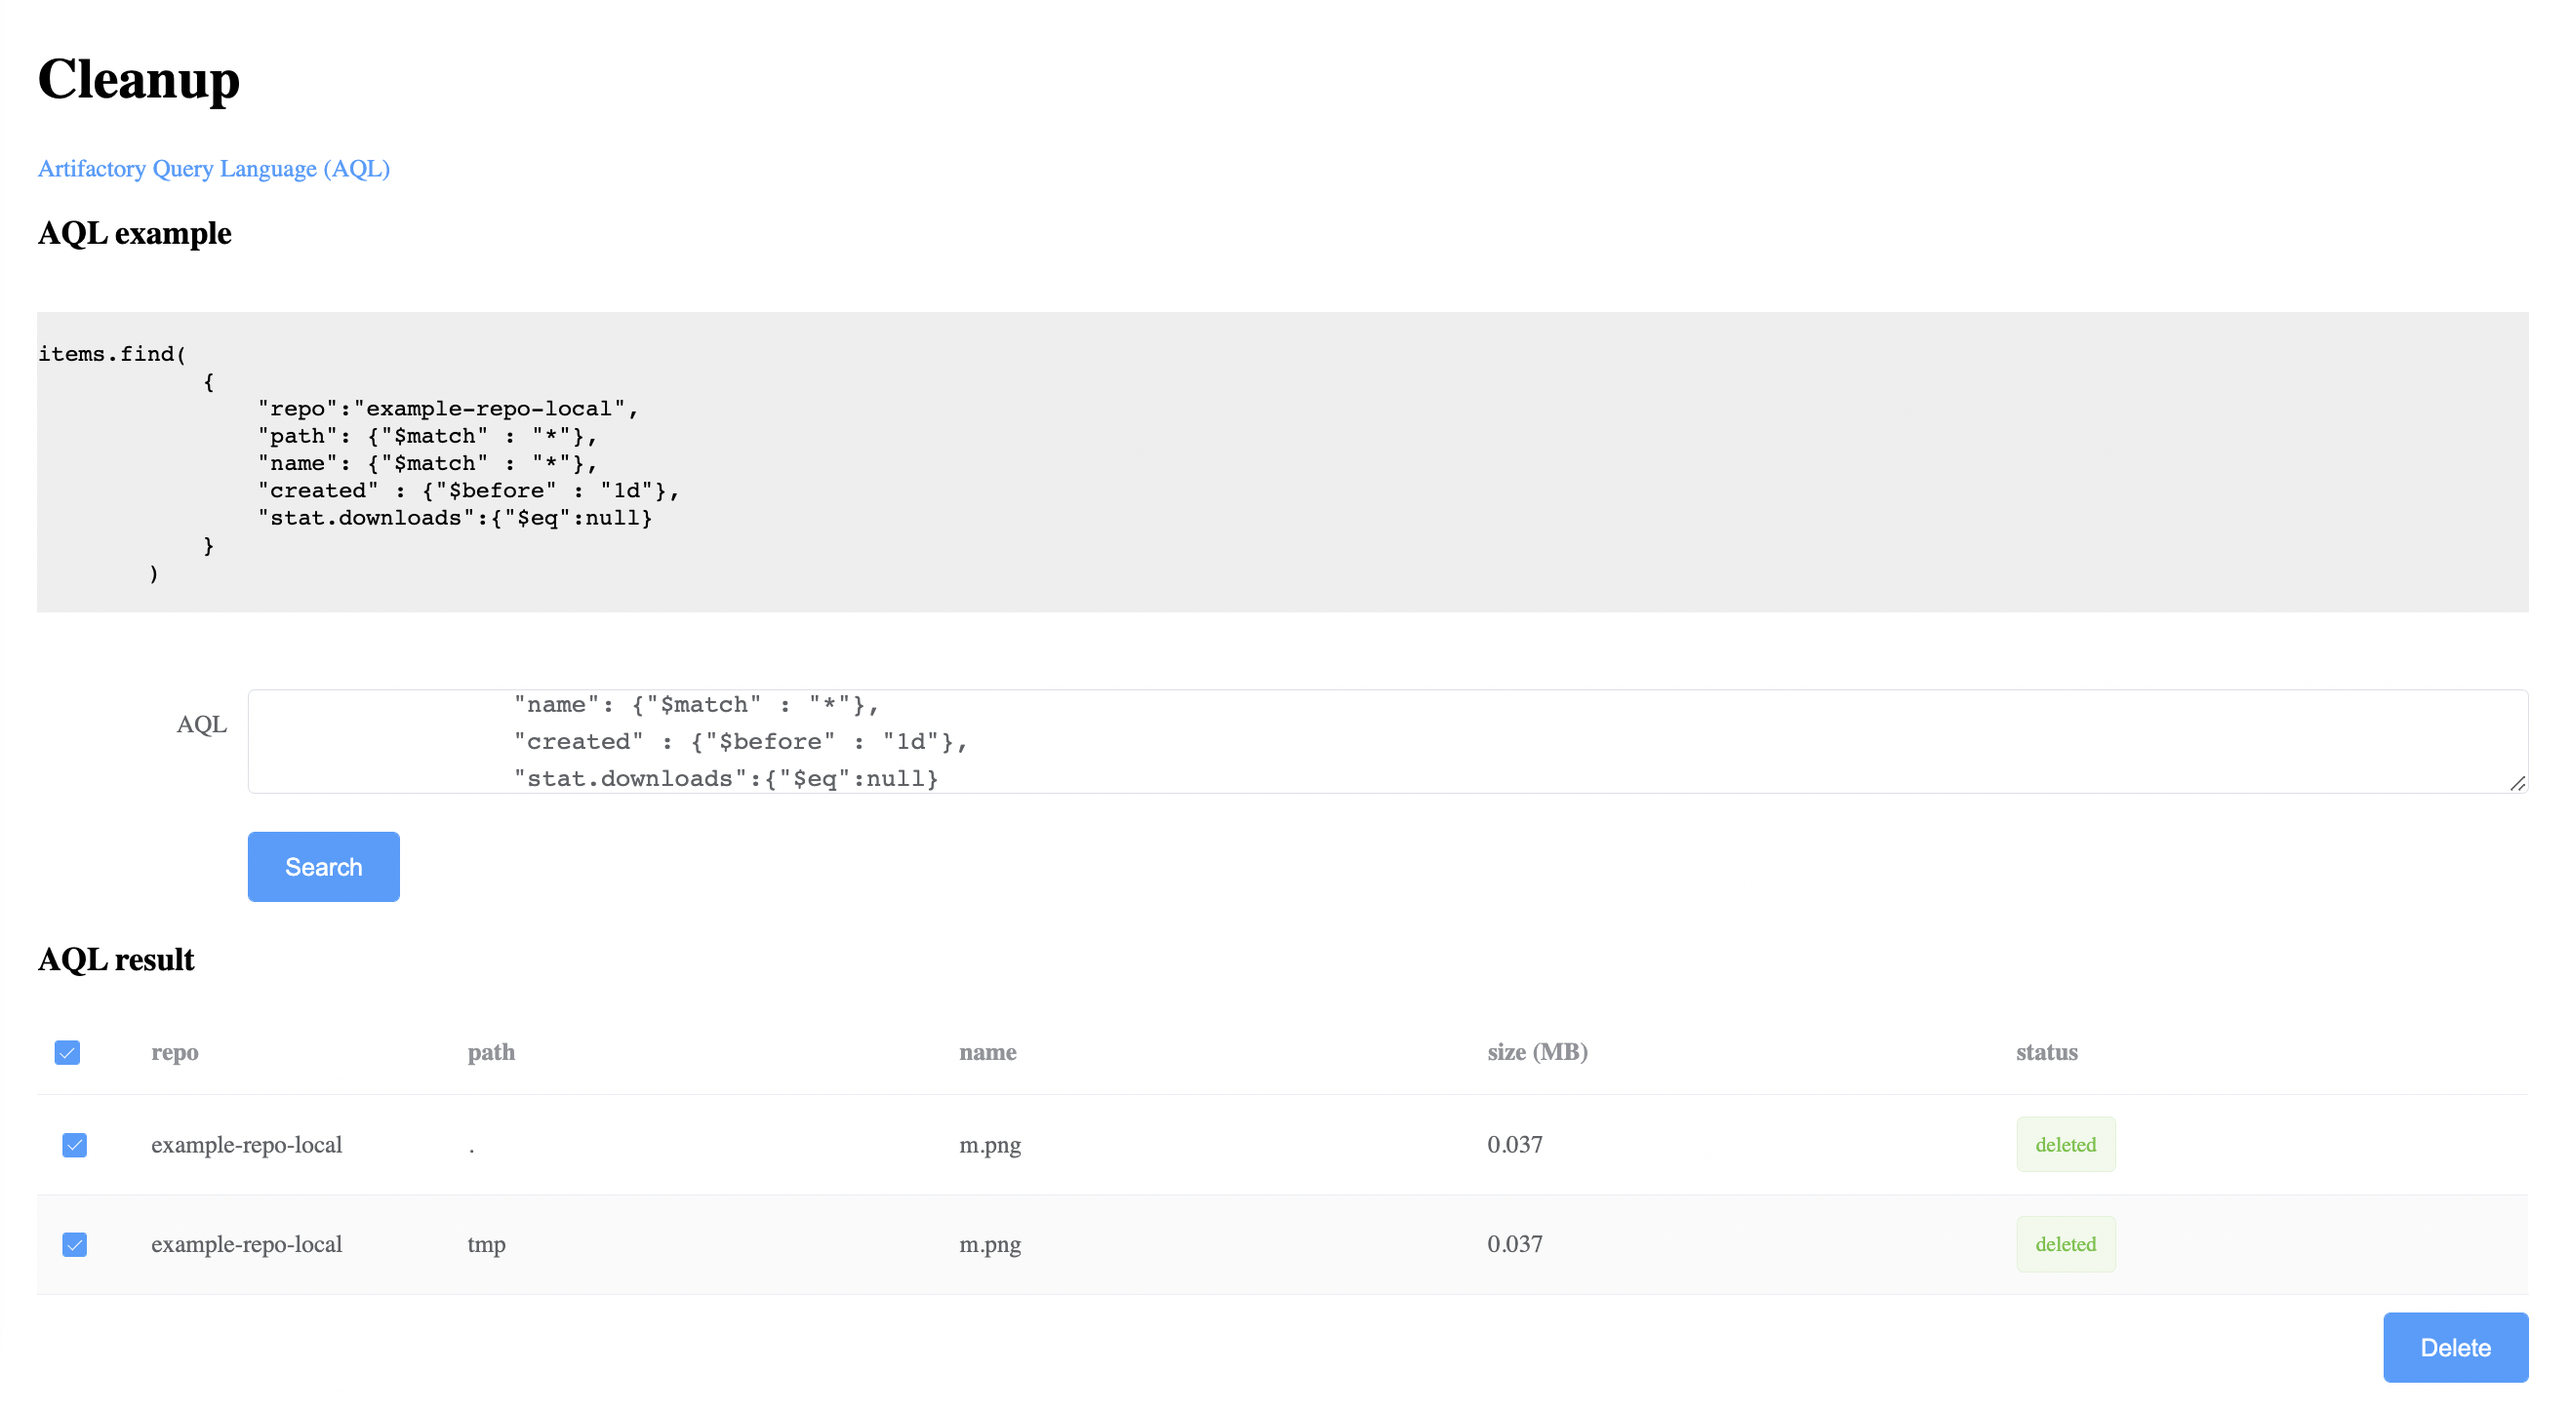
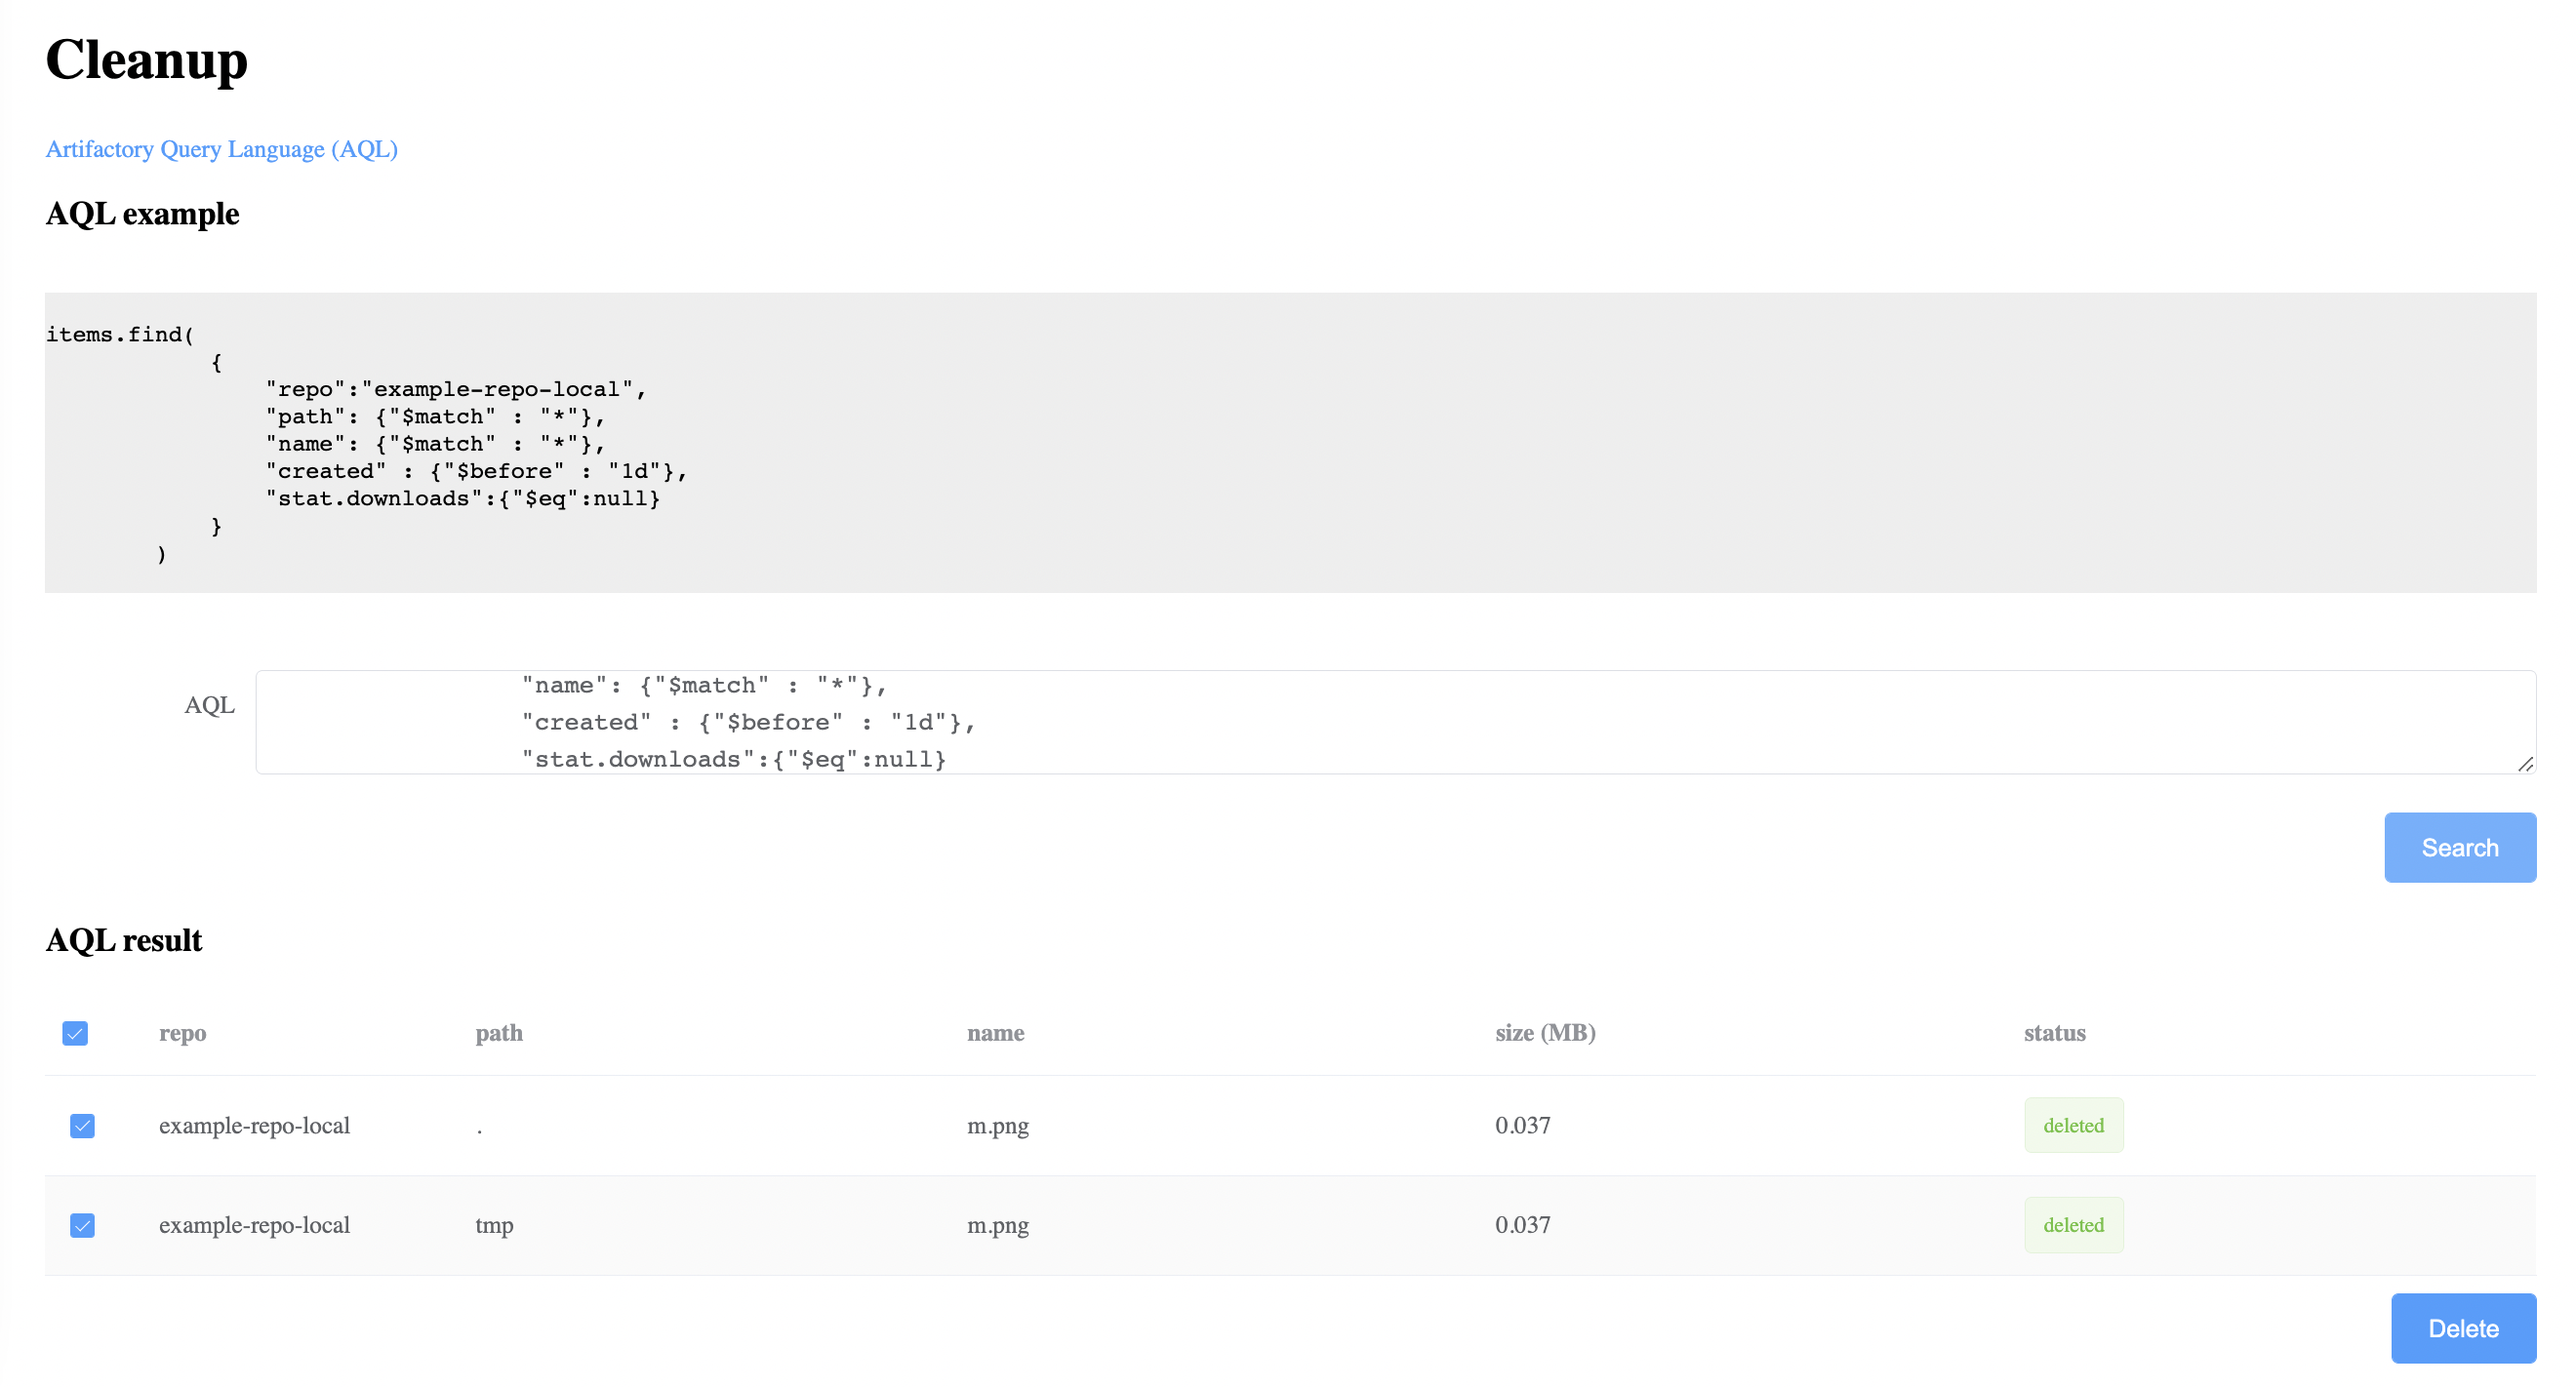
c

diff --git a/plugins/cleanup/index.html b/plugins/cleanup/index.html
@@ -37,7 +37,7 @@ items.find(
       <el-form-item label="AQL">
         <el-input type="textarea" v-model="aql"></el-input>
       </el-form-item>
-      <el-form-item>
+      <el-form-item style="text-align: right; ">
         <el-button type="primary" @click="fnAQL()">Search</el-button>
       </el-form-item>
     </el-form>
